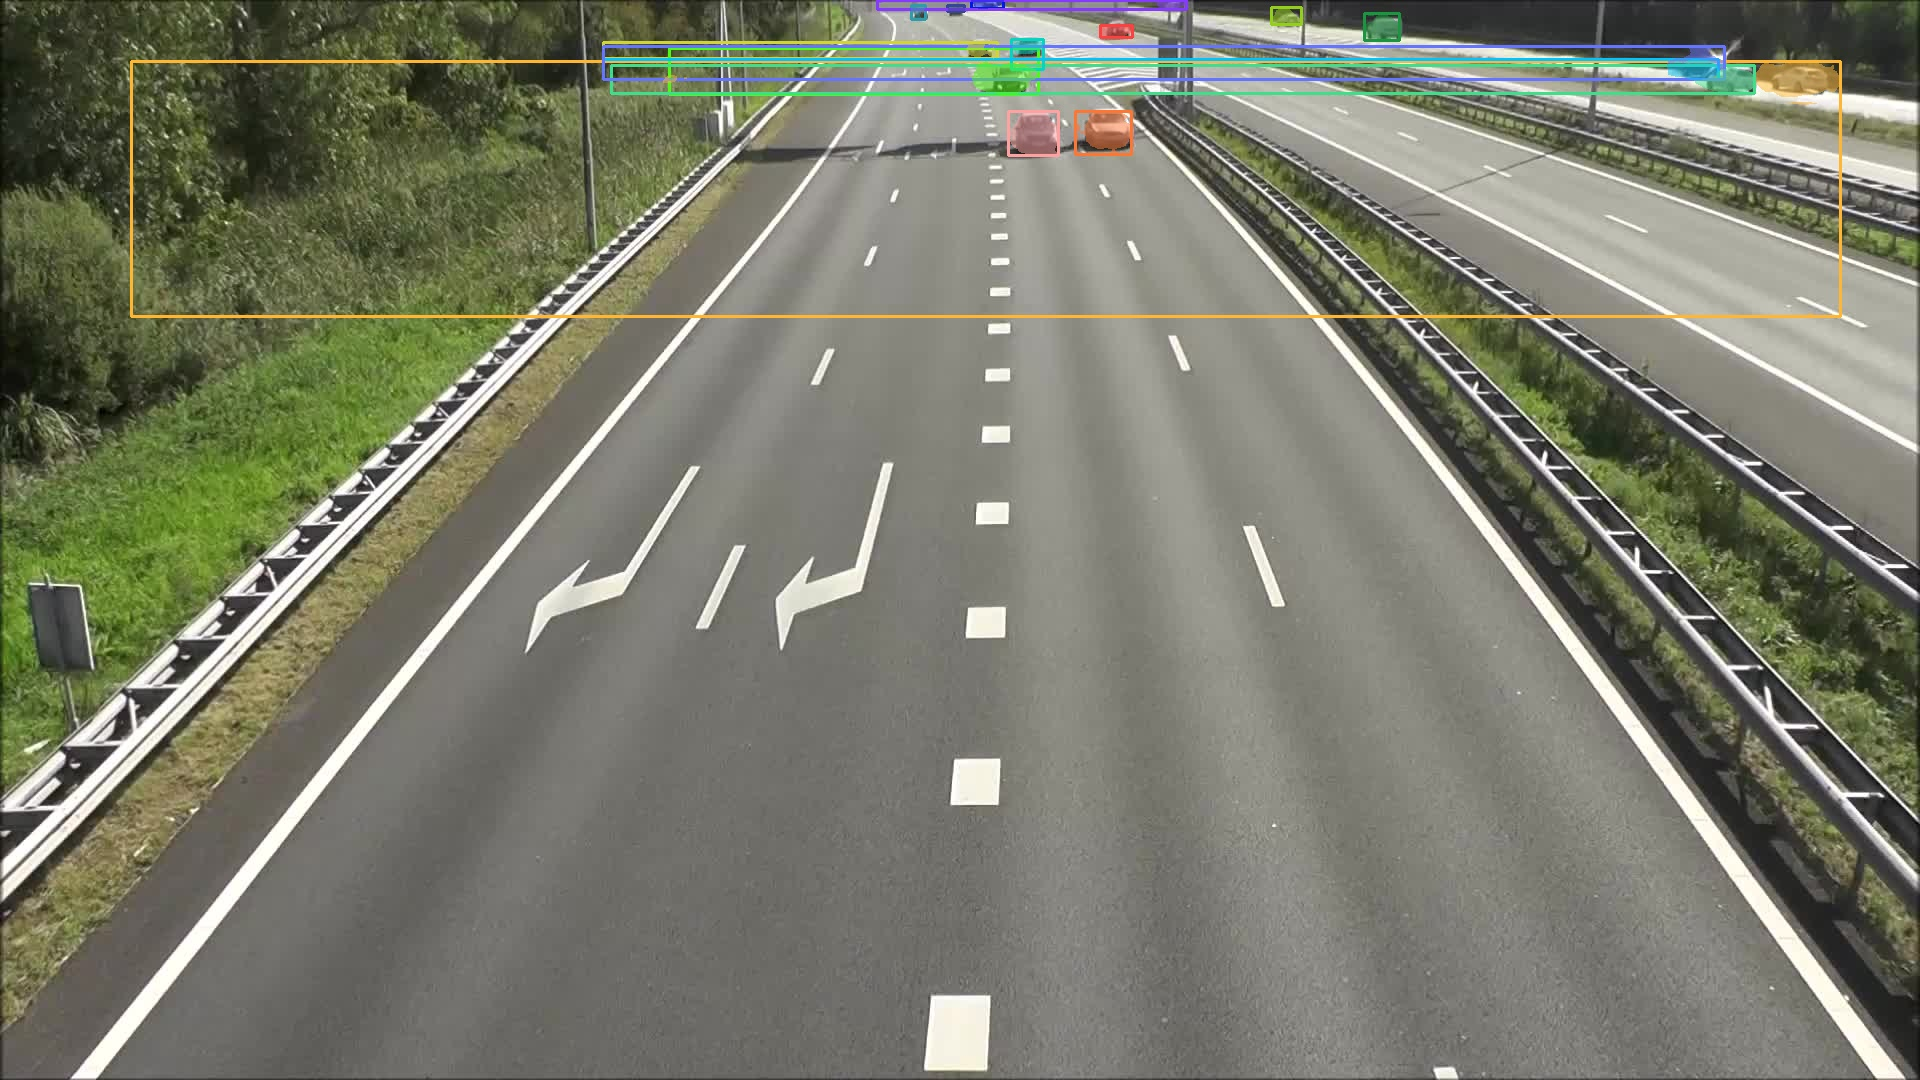
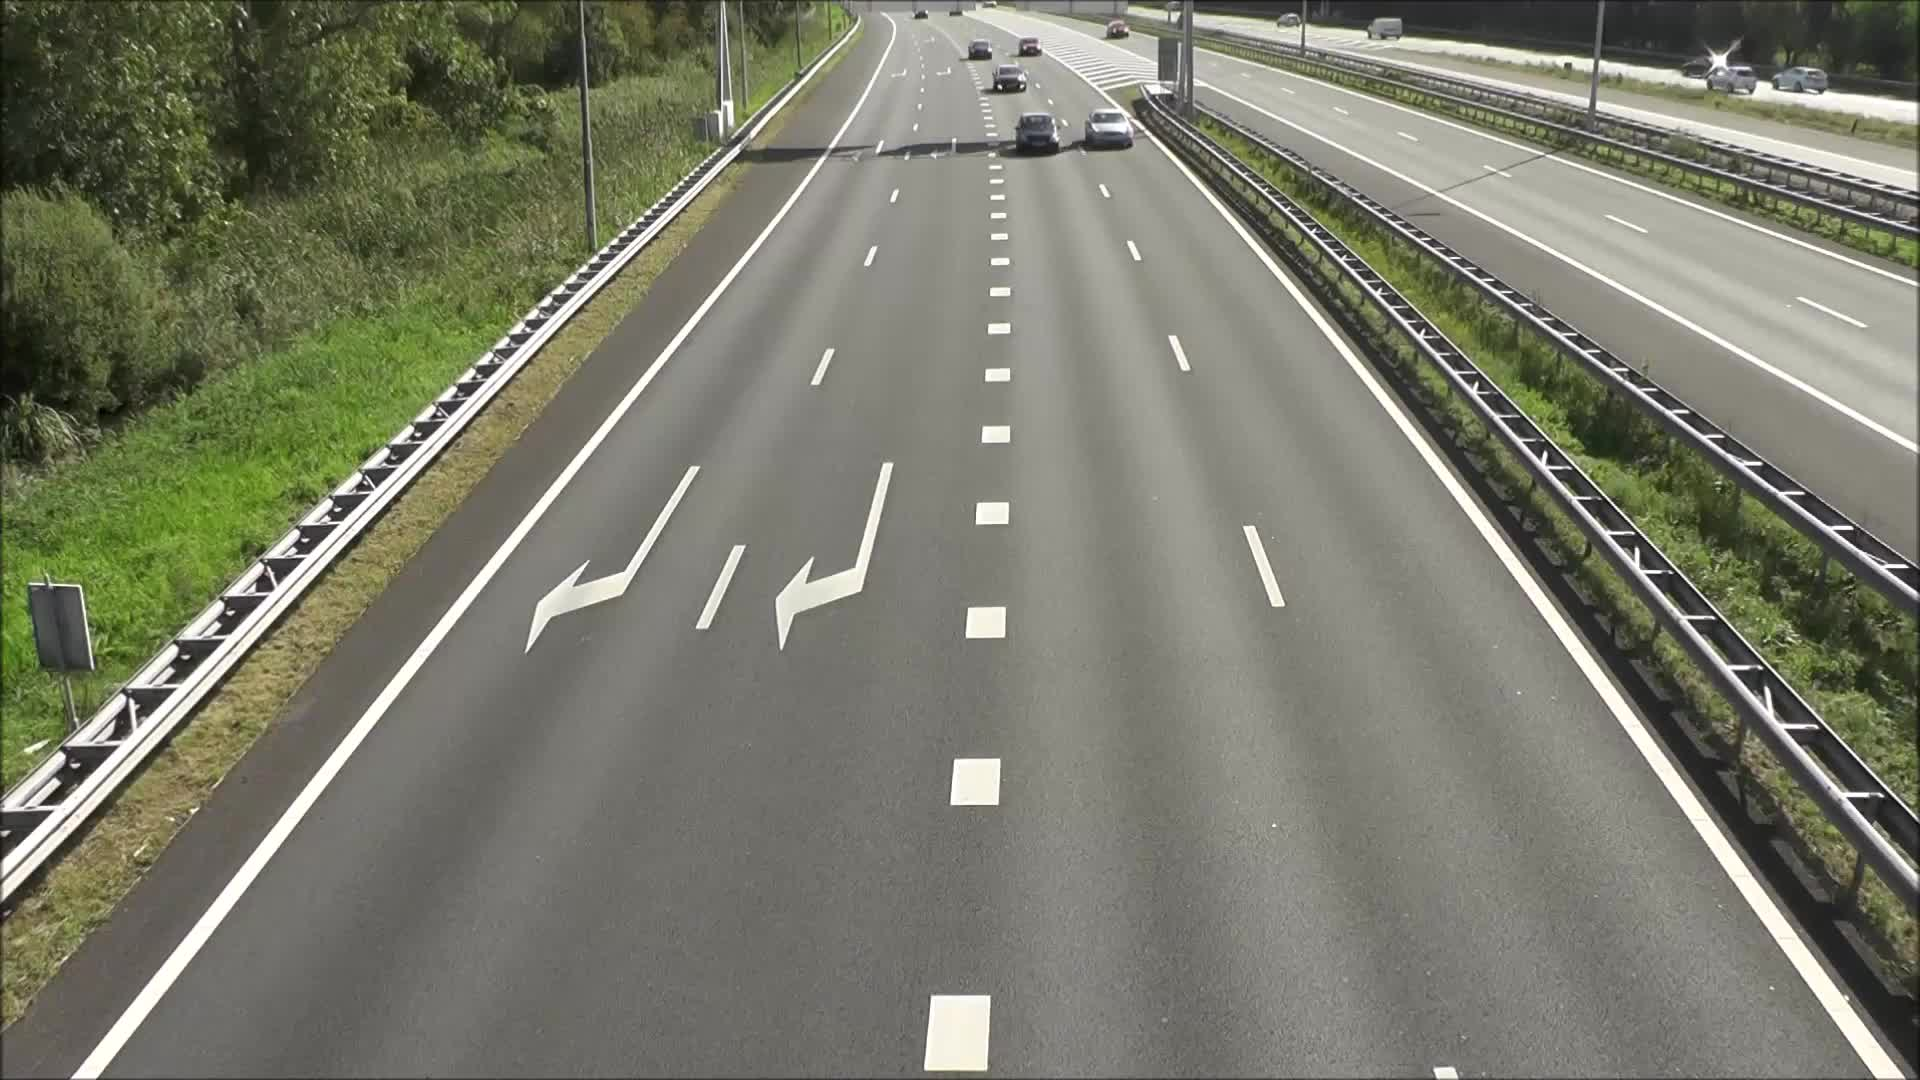
working finally :)

Changed region(s): [[0.0625, 0.0, 0.9688, 0.1528], [0.0625, 0.275, 0.9688, 0.3056]]

diff --git a/mydemo.py b/mydemo.py
@@ -13,7 +13,7 @@ from utils.video_utils import create_video_from_images
 import io
 from sam2.sam2_video_predictor import _load_img_bytes_as_tensor, load_single_image
 
-def first_step(text, image_inp):
+def first_step(text, image_inp, image_inp_path, video_height, video_width):
     """
     Step 1: Environment settings and model initialization
     """
@@ -58,7 +58,7 @@ def first_step(text, image_inp):
     #frame_names = first_frame_list #first_frame_list is list = [bytes_image]
 
     # init video predictor state
-    inference_state = video_predictor.non_video_path_init_state(image_inp)#video_predictor.init_state(video_path=video_dir) #FIX
+    inference_state = video_predictor.non_video_path_init_state(image_inp, video_height, video_width)#video_predictor.init_state(video_path=video_dir) #FIX
 
     ann_frame_idx = 0  # the frame index we interact with
     ann_obj_id = 1  # give a unique id to each object we interact with (it can be any integers)
@@ -71,7 +71,7 @@ def first_step(text, image_inp):
     # prompt grounding dino to get the box coordinates on specific frame
     #img_path = os.path.join(video_dir, frame_names[ann_frame_idx])
     #image = Image.open(img_path)
-    image = image_inp#Image.open(io.BytesIO(frame_names[0]))
+    image = Image.open(image_inp_path)
 
     # run Grounding DINO on the image
     inputs = processor(images=image, text=text, return_tensors="pt").to(device)
@@ -278,10 +278,10 @@ def main():
         # img_bytes = buffer.getvalue()
         # buffer.close()
         # images.append(img_bytes)
-        image, _, _ = load_single_image(image_path, 1024)
+        image, video_height, video_width = load_single_image(image_path, 1024)
         images.append(image)
 
-    video_predictor, inference_state, masks1, segments1 = first_step("car.", images[0])
+    video_predictor, inference_state, masks1, segments1 = first_step("car.", images[0], "00001.jpg", video_height, video_width)
     print("mask shapes", masks1.shape)
     print("inference state 1", summarize_dict(inference_state))
     video_predictor, inference_state, masks2, segments2 = new_frame(video_predictor, inference_state, images[1])

diff --git a/sam2/sam2_video_predictor.py b/sam2/sam2_video_predictor.py
@@ -160,6 +160,8 @@ class SAM2VideoPredictor(SAM2Base):
     def non_video_path_init_state(
         self,
         images,
+        video_height,
+        video_width,
         offload_video_to_cpu=False,
         offload_state_to_cpu=False,
         async_loading_frames=False,
